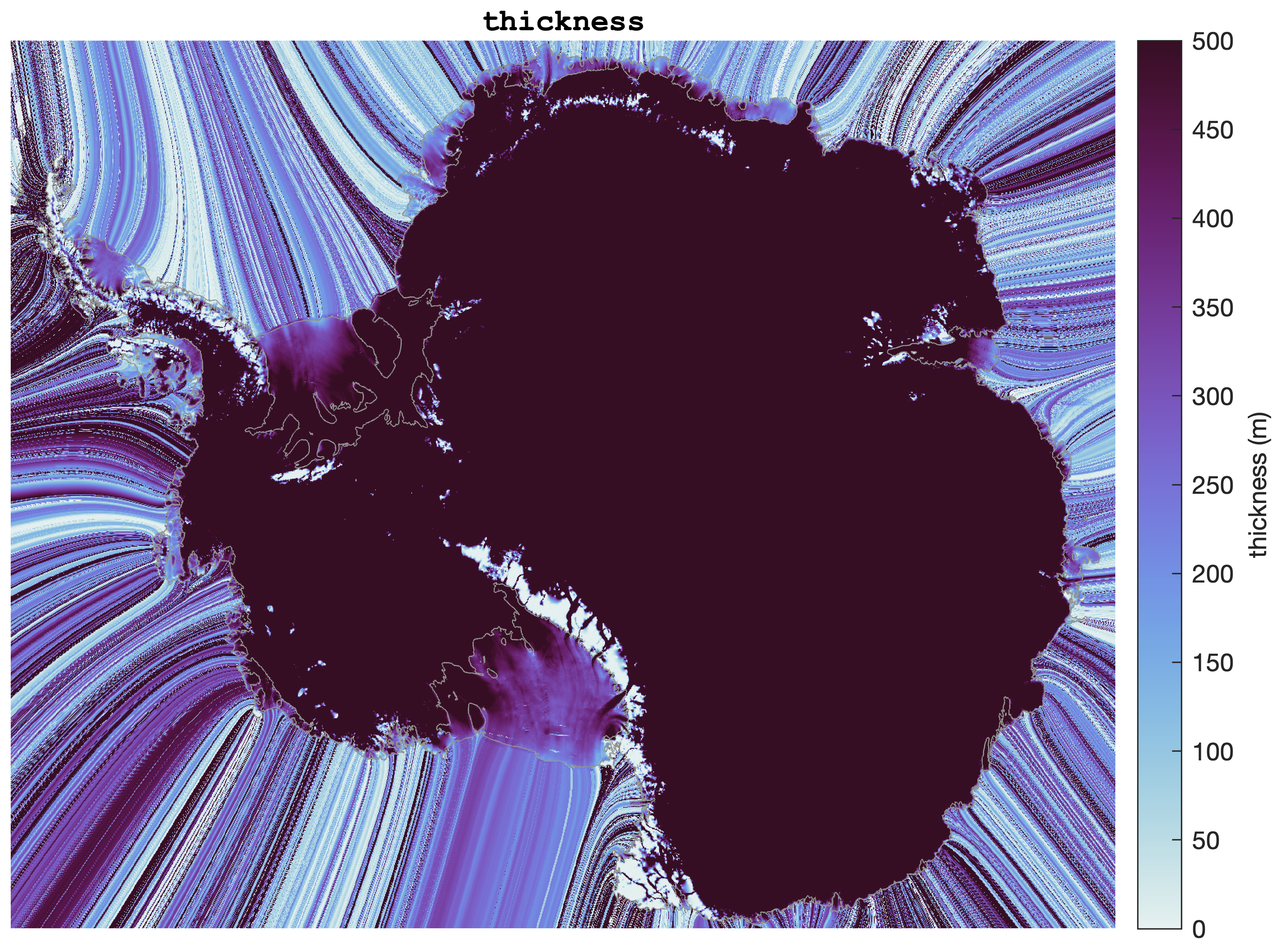
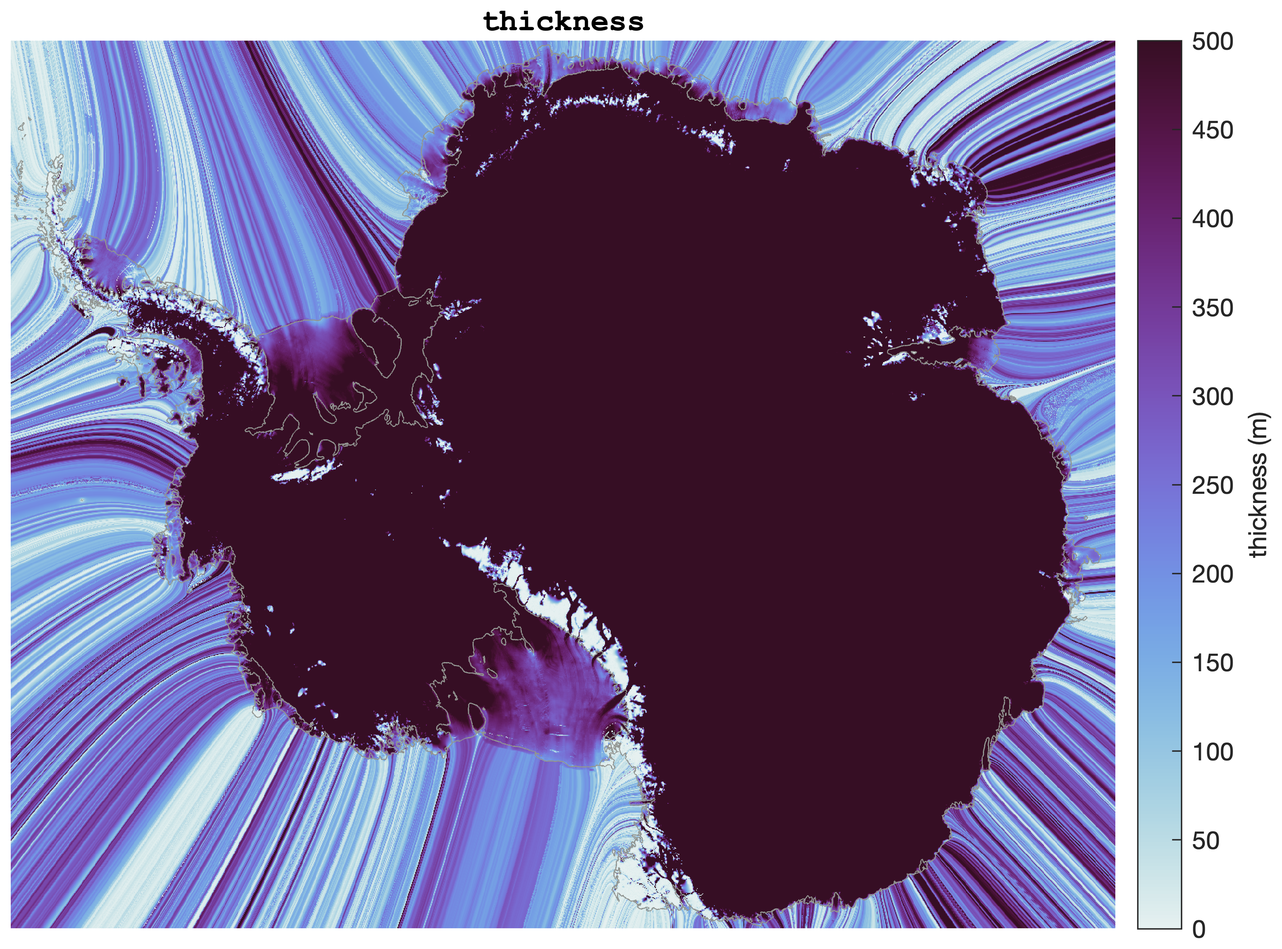
daily updates

Changed region(s): [[0.0, 0.031, 0.8688, 0.9929]]

diff --git a/iceshelf_thickness_cube_generator.m b/iceshelf_thickness_cube_generator.m
@@ -1,0 +1,138 @@
+
+load('icemask_composite.mat')
+always_ice = imfill(all(ice(:,:,year<=2018),3),8,'holes'); % Take the mean ice mask over the observed period. Taking the sum is faster than mean.  
+clear ice year
+
+fn = '/Users/cgreene/Documents/MATLAB/DEM_generation/extruded_antarctica_2021-09-02.h5'; 
+H0 = permute(h5read(fn,'/thickness'),[2 1]); 
+
+[X,Y] = meshgrid(x,y); 
+
+ground = ismember(bedmachine_interp('mask',X,Y),[1 2 4]);
+bed = bedmachine_interp('bed',X,Y); 
+
+yrtmp = floor(h5read('FULL_CUBE_v4.h5','/t')); 
+xf = h5read('FULL_CUBE_v4.h5','/x');
+yf = h5read('FULL_CUBE_v4.h5','/y');
+[Xf,Yf] = meshgrid(xf,yf); 
+
+Htmp = permute(h5read('FULL_CUBE_v4.h5','/H_filt10'),[3 2 1]); 
+
+polehole = interp2(xf,yf,sum(diff(Htmp,[],3)==0,3),X,Y,'nearest')>75;
+
+%% Convert Fernando's data to annual averages
+
+year = unique(yrtmp); 
+
+dH = NaN(size(Xf,1),size(Xf,2),numel(year)); 
+for k = 1:numel(year)
+   ind = yrtmp == year(k); 
+   dH(:,:,k) = mean(Htmp(:,:,ind),3,'omitnan'); 
+end
+
+dH = dH - dH(:,:,year==2014);
+
+clear Htmp yrtmp
+
+%% Fill edges of Fernando's data 
+
+dst2data_km = 3*bwdist(all(isfinite(dH),3));
+
+for k = 1:size(dH,3)
+   tmp = dH(:,:,k); 
+   
+   % Constrain regionfill by setting dH anomalies more than 100 km from data to 0.  
+   tmp(dst2data_km>100) = 0; 
+   
+   % Fill the gap: 
+   tmp = regionfill(tmp,isnan(tmp)); 
+   
+   dH(:,:,k) = tmp; 
+   
+end
+
+%% Maximum thickness w/o grounding
+
+% Calculate the maximum thickness that could exist at neutral buoyancy 
+% (no new grounding). If hydrostatic factor thickness2freeboard(1)=0.1071, then H_max = bed/(0.1071-1) = 1.1199*bed.   
+Hmax = -1.12*bed; 
+
+% Subtract a meter as a safety margin to make sure the ice base doesn't skim the bottom: 
+Hmax = Hmax - 1; 
+
+%% Create thickness cube for 1992-2018
+
+H = zeros(size(X,1),size(X,2),length(year),'uint16');
+
+for k = 1:length(year)
+   tmp = H0 + interp2(xf,yf,dH(:,:,k),X,Y); 
+   
+   % Prevent any new grounding: 
+   tmp(tmp>Hmax & ~ground & always_ice) = Hmax(tmp>Hmax & ~ground & always_ice); 
+   
+   % Make sure no holes cropped up: 
+   tmp(tmp<1 & ~ground & always_ice) = 1; 
+   
+   % Set "ocean" to NaN: 
+   tmp(~always_ice & ~ground) = 32767; 
+   
+   % Make sure grounded ice remains unchanged: 
+   tmp(ground) = H0(ground); 
+   
+   % Store this year's thickness: 
+   H(:,:,k) = uint16(tmp); 
+   k
+end
+
+readme = 'ice shelf thickness time series, taken from F. Paolos FULL_CUBE_v4.5, but tied to our adjusted BedMachine dataset. This data was generated by iceshelf_thickness_cube_generator.m';
+
+% save('/Users/cgreene/Documents/MATLAB/DEM_generation/iceshelf_thickness_cube_1992-2018.mat','x','y','H','ground','always_ice','year','readme','-v7.3')
+
+%% Calculate elevation trend
+
+% The trend for the whole record: 
+H2 = cube2rect(H,always_ice & ~ground & ~polehole ); 
+H_tr = rect2cube(trend(double(H2),1),always_ice & ~ground & ~polehole); 
+
+% The trend for the pole hole (only the CryoSat-2 period) 
+H2 = cube2rect(H(:,:,year>=2010),polehole); 
+H_tr2 = rect2cube(trend(double(H2),1),polehole); 
+
+% Merge the two solutions: 
+H_tr(polehole) = H_tr2(polehole); 
+
+clear H2 H_tr2
+
+%%
+
+future_years = 0:2:50; 
+H_start = H(:,:,end); % from last time 
+H = zeros(size(X,1),size(X,2),numel(future_years),'uint16');
+
+H(:,:,1) = H_start; 
+
+H_start = double(H_start); 
+
+for k = 2:numel(future_years) 
+   
+   tmp = H_start + H_tr*future_years(k); 
+   % Prevent any new grounding: 
+   tmp(tmp>Hmax & ~ground & always_ice) = Hmax(tmp>Hmax & ~ground & always_ice); 
+   
+   % Make sure no holes cropped up: 
+   tmp(tmp<1 & ~ground & always_ice) = 1; 
+   
+   % Set "ocean" to NaN: 
+   tmp(~always_ice & ~ground) = 32767; 
+   
+   % Make sure grounded ice remains unchanged: 
+   tmp(ground) = H0(ground); 
+   
+   % Store this year's thickness: 
+   H(:,:,k) = uint16(tmp); 
+   k
+end
+
+readme = 'ice shelf thickness time series for the next 50 years, extrapolating 1992-2018 trends from F. Paolos FULL_CUBE_v4.5 50 years into the future. This data was generated by iceshelf_thickness_cube_generator.m';
+% save('/Users/cgreene/Documents/MATLAB/DEM_generation/iceshelf_thickness_cube_future.mat','x','y','H','ground','always_ice','future_years','readme','-v7.3')
+

diff --git a/flow_dem_extend.m b/flow_dem_extend.m
@@ -70,6 +70,7 @@ grounded = ismember(mask_bm,[1 2 4]);
 
 % Load REMA data: 
 h_rema = wgs2gl04c(X_bm,Y_bm,rema_interp(X_bm,Y_bm,'res',200));
+h_rema(bwdist(~isfinite(h_rema))*.5<5) = NaN; % eliminates everything within 5 km of NaNs because of weird icebergs at the edge of Ronne 
 
 % Load Bedmap2 data: 
 h_b2 = bedmap2_interp(X_bm,Y_bm,'surface'); 
@@ -78,14 +79,14 @@ h_b2(isn) = bedmap2_interp(X_bm(isn),Y_bm(isn),'surface','nearest');
 
 % load bamber: 
 h_bam = wgs2gl04c(X_bm,Y_bm,bamberdem_interp(X_bm,Y_bm));
-h_bam(bwdist(~isfinite(h_bam))*.5<15) = NaN; % Eliminates 15 km perimeter b/c drooping ice sheet edges in Bamber and RAMP dems
+h_bam(bwdist(~isfinite(h_bam))*.5<10) = NaN; % Eliminates 10 km perimeter b/c drooping ice sheet edges in Bamber and RAMP dems
 
 % RAMP2:
 [Iramp,xramp,yramp] = geoimread('ramp2_dem_osu91a200m.tif'); % The OSU version of the file is referenced to the geoid whereas the RAM2_DEM.tif is referenced to wgs84. Use OSU.  
 Iramp = double(Iramp); 
 Iramp(Iramp==0) = NaN; % Convert zeros to NaN so interpolation won't produce thin ice shelf edges.  
 h_ramp = interp2(xramp,yramp,Iramp,X_bm,Y_bm); 
-h_ramp(bwdist(~isfinite(h_ramp))*.5<15) = NaN;  % Eliminates 15 km perimeter b/c drooping ice sheet edges in Bamber and RAMP dems
+h_ramp(bwdist(~isfinite(h_ramp))*.5<10) = NaN;  % Eliminates 10 km perimeter b/c drooping ice sheet edges in Bamber and RAMP dems
 
 %% Remove firn air content 
 % (BedMachine already has FAC removed) 
@@ -154,7 +155,7 @@ clear ax bad D_thresh h H_bm grounded D h* H_bm H_b2 H_rema H_ramp H_bam Iramp s
 
 readme = 'created by flow_dem_extend.m. H_source 1=BedMachine v2, 2=REMA, 3=Bedmap2, 4=bamber, 5=ramp2_dem_osu91a200m ';
 if save_everything
-   save('flow_dem_extend_1.mat','-v7.3') % takes 10 minutes to get here
+   save('/Users/cgreene/Documents/MATLAB/DEM_generation/flow_dem_extend_1.mat','-v7.3') % takes 10 minutes to get here
    disp 'saved 1'
 else
 
@@ -401,14 +402,14 @@ end
 %% 
 
 if save_everything
- save('flow_dem_extend_2.mat','vx','vy','iceshelves','v_source','x','y','-v7.3')
+ save('/Users/cgreene/Documents/MATLAB/DEM_generation/flow_dem_extend_2.mat','vx','vy','iceshelves','v_source','x','y','-v7.3')
 end
 
 clear tmp* V vsg vv vvs iceshelves_* bad ch row col D* dx dy L M perim q xx yy
 
 %% Extrude Thickness Round 1 
 
-perim = bwperim(imfill(H>10,'holes'));
+perim = bwperim(imfill(H>=10,'holes'));
 xseed = X(perim); 
 yseed = Y(perim); 
 [row,col] = find(perim); 
@@ -440,9 +441,14 @@ tmpH(isf) = hg(isf);
 
 disp 'done thickness round 1' 
 
+if save_everything
+   clear M V XY xx yy hh isf hg
+   save('/Users/cgreene/Documents/MATLAB/DEM_generation/test.mat','-v7.3')
+end
+
 %% Extrude Thickness Round 2
 
-XY = stream2(x_r,y_r,Hvx_r,Hvy_r,xseed,yseed,[0.1 6000]);
+XY = stream2(x_r,y_r,Hvx_r,Hvy_r,xseed,yseed,[0.1 5500]);
 V = XY; 
 for k = 1:length(V) 
    V{k}(:,1) = Hf(row(k),col(k)); 
@@ -466,9 +472,14 @@ tmpH(isf) = hg(isf);
 
 disp 'done thickness round 2' 
 
+if save_everything
+   clear M V XY xx yy hh isf hg
+   save('/Users/cgreene/Documents/MATLAB/DEM_generation/test.mat','-v7.3')
+end
+
 %% Extrude Thickness Round 3
 
-XY = stream2(x_r,y_r,Hvx_r,Hvy_r,xseed,yseed,[0.02 6000]);
+XY = stream2(x_r,y_r,Hvx_r,Hvy_r,xseed,yseed,[0.02 5500]);
 V = XY; 
 for k = 1:length(V) 
    V{k}(:,1) = Hf(row(k),col(k)); 
@@ -492,7 +503,11 @@ tmpH(isf) = hg(isf);
 
 disp 'done thickness round 3' 
 
-%% 
+% if save_everything
+%    clear M V XY xx yy hh isf hg
+%    save('/Users/cgreene/Documents/MATLAB/DEM_generation/test.mat','-v7.3')
+% end
+%%
 
 H = regionfill(tmpH,isnan(tmpH)); 
 H_source(H_source==0) = 7; 

diff --git a/issm_calving_melt_setup.m b/issm_calving_melt_setup.m
@@ -1,0 +1,27 @@
+
+
+load('icemask_composite.mat')
+ever_ice = imfill(any(ice,3),8,'holes'); % Take the mean ice mask over the observed period. Taking the sum is faster than mean.  
+clear ice year
+
+fn = '/Users/cgreene/Documents/MATLAB/DEM_generation/extruded_antarctica_2021-10-15.h5'; 
+thickness = permute(h5read(fn,'/thickness'),[2 1]); 
+vx = permute(h5read(fn,'/vx'),[2 1]); 
+vy = permute(h5read(fn,'/vy'),[2 1]); 
+
+[X,Y] = meshgrid(x,y); 
+
+ground = ismember(bedmachine_interp('mask',X,Y),[1 2 4]);
+bed = bedmachine_interp('bed',X,Y); 
+
+vx(~ever_ice) = 32767; 
+vy(~ever_ice) = 32767; 
+thickness(~ever_ice) = 32767; 
+
+vx = int16(vx);
+vy = int16(vy); 
+thickness = uint16(thickness); 
+bed = int16(bed); 
+
+readme = 'This is the setup for an issm experiment. Created by issm_calving_melt_setup.mat.';
+% save('/Users/cgreene/Documents/MATLAB/DEM_generation/issm_calving_melt_setup.mat','x','y','bed','thickness','vx','vy','ever_ice','ground','readme','-v7.3')

diff --git a/icemask_buffer.m b/icemask_buffer.m
@@ -9,9 +9,8 @@
 
 load ('icemask_composite.mat')
 
-fn = '/Users/cgreene/Documents/MATLAB/DEM_generation/extruded_antarctica_2021-09-02.h5'; 
+fn = '/Users/cgreene/Documents/MATLAB/DEM_generation/extruded_antarctica_2021-10-15.h5'; 
 mask = permute(h5read(fn,'/iceshelf_mask'),[2 1]); 
-%H = permute(h5read(fn,'/thickness'),[2 1]); 
 
 [X,Y] = meshgrid(x,y); 
 
@@ -25,7 +24,6 @@ clear ice X Y
 %% Buffer in successive increments of distance from coast
 
 % Range of percent values: 
-% pct = [0:20 22:2:80 81:100]; 
 pct = 0:100; 
 
 % Number of pixels in each ice shelf: 

diff --git a/icemask_analysis.m b/icemask_analysis.m
@@ -5,7 +5,7 @@ load icemask_composite
 % ice = permute(logical(h5read(fn,'/ice')),[2 1 3]); 
 % year = h5read(fn,'/year'); 
 
-fn = '/Users/cgreene/Documents/MATLAB/DEM_generation/extruded_antarctica_2021-09-02.h5'; 
+fn = '/Users/cgreene/Documents/MATLAB/DEM_generation/extruded_antarctica_2021-10-15.h5'; 
 mask = permute(h5read(fn,'/iceshelf_mask'),[2 1]); 
 H = permute(h5read(fn,'/thickness'),[2 1]); 
 %H_source = permute(h5read(fn,'/thickness_source'),[2 1]); 

diff --git a/icemask_compiler.m b/icemask_compiler.m
@@ -18,7 +18,7 @@ x = F.x;
 y = F.y; 
 [X,Y] = meshgrid(x,y); 
 
-fn = '/Users/cgreene/Documents/MATLAB/DEM_generation/extruded_antarctica_2021-09-02.h5'; 
+fn = '/Users/cgreene/Documents/MATLAB/DEM_generation/extruded_antarctica_2021-10-15.h5'; 
 mask = permute(h5read(fn,'/iceshelf_mask'),[2 1]); 
 H = permute(h5read(fn,'/thickness'),[2 1]); 
 %H_source = permute(h5read(fn,'/thickness_source'),[2 1]); 

diff --git a/icemask_animator.m b/icemask_animator.m
@@ -8,7 +8,7 @@
 
 load icemask_composite
 
-fn = '/Users/cgreene/Documents/MATLAB/DEM_generation/extruded_antarctica_2021-09-02.h5'; 
+fn = '/Users/cgreene/Documents/MATLAB/DEM_generation/extruded_antarctica_2021-10-15.h5'; 
 vx = permute(h5read(fn,'/vx'),[2 1]); 
 vy = permute(h5read(fn,'/vy'),[2 1]); 
 

diff --git a/extruded_antarctica_plotter.m b/extruded_antarctica_plotter.m
@@ -6,7 +6,7 @@
 
 %% Inspect data: 
 
-fn = '/Users/cgreene/Documents/MATLAB/DEM_generation/extruded_antarctica_2021-09-02.h5'; 
+fn = '/Users/cgreene/Documents/MATLAB/DEM_generation/extruded_antarctica_2021-10-15.h5'; 
 h5disp(fn)
 
 %% Load data: 
